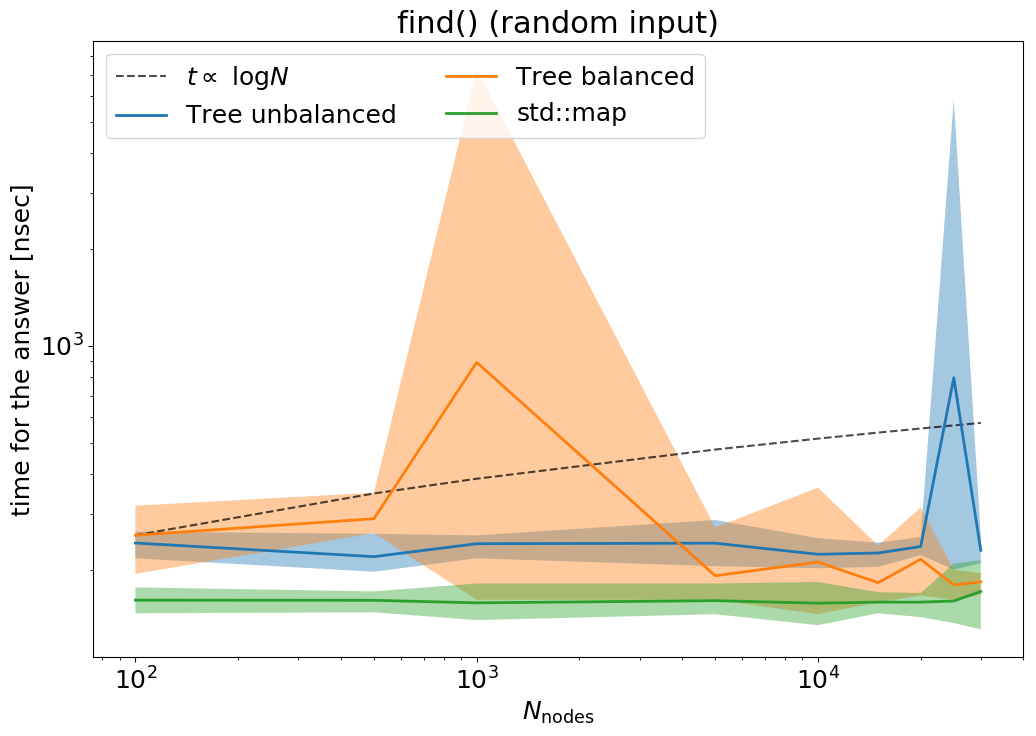
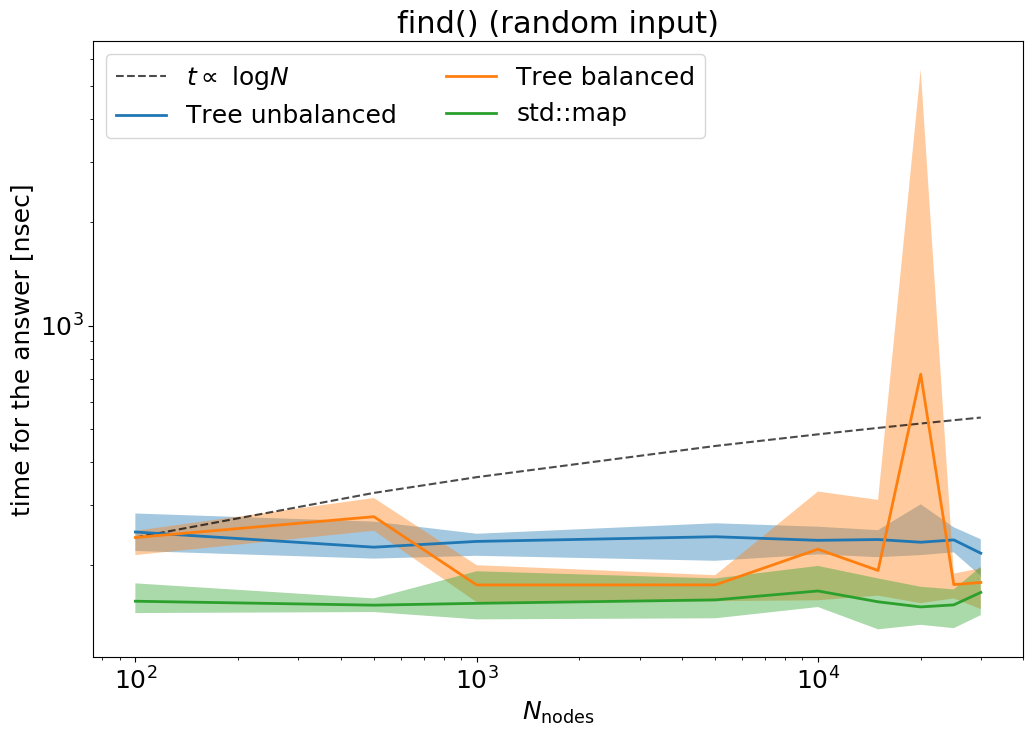
updated plot performance

Changed region(s): [[0.1236, 0.125, 0.9575, 0.875], [0.0309, 0.4375, 0.0927, 0.5]]

diff --git a/c++/analysis/plot_results.py b/c++/analysis/plot_results.py
@@ -1,14 +1,14 @@
 import matplotlib.pyplot as plt
 import numpy as np
 
-filein = "../output/test_unordered.dat"
+filein = "../output/test_ordered.dat"
 
 ss, minTu, Tu, maxTu, minTo, To, maxTo, minTm, Tm, maxTm = np.genfromtxt(filein, unpack=True)
 
 fig = plt.figure( figsize=(12,8) )
 ax = fig.add_subplot( 1, 1, 1 )
 
-ax.set_title("find() (random input)", fontsize=22)
+ax.set_title("find() (ordered input)", fontsize=22)
 ax.tick_params(axis='both', labelsize=18)
 ax.set_xscale('log')
 # ax.set_xlim([70, 1.4e+5])
@@ -29,5 +29,5 @@ ax.fill_between(ss, minTo, maxTo, alpha=0.4)
 ax.plot(ss, Tm, lw=2., label="std::map")
 ax.fill_between(ss, minTm, maxTm, alpha=0.4)
 ax.legend(loc='upper left', fontsize=18, ncol=2)
-plt.savefig("../output/plot_random.png", bbox_inches='tight')
+plt.savefig("../output/plot_ordered.png", bbox_inches='tight')
 plt.show()
